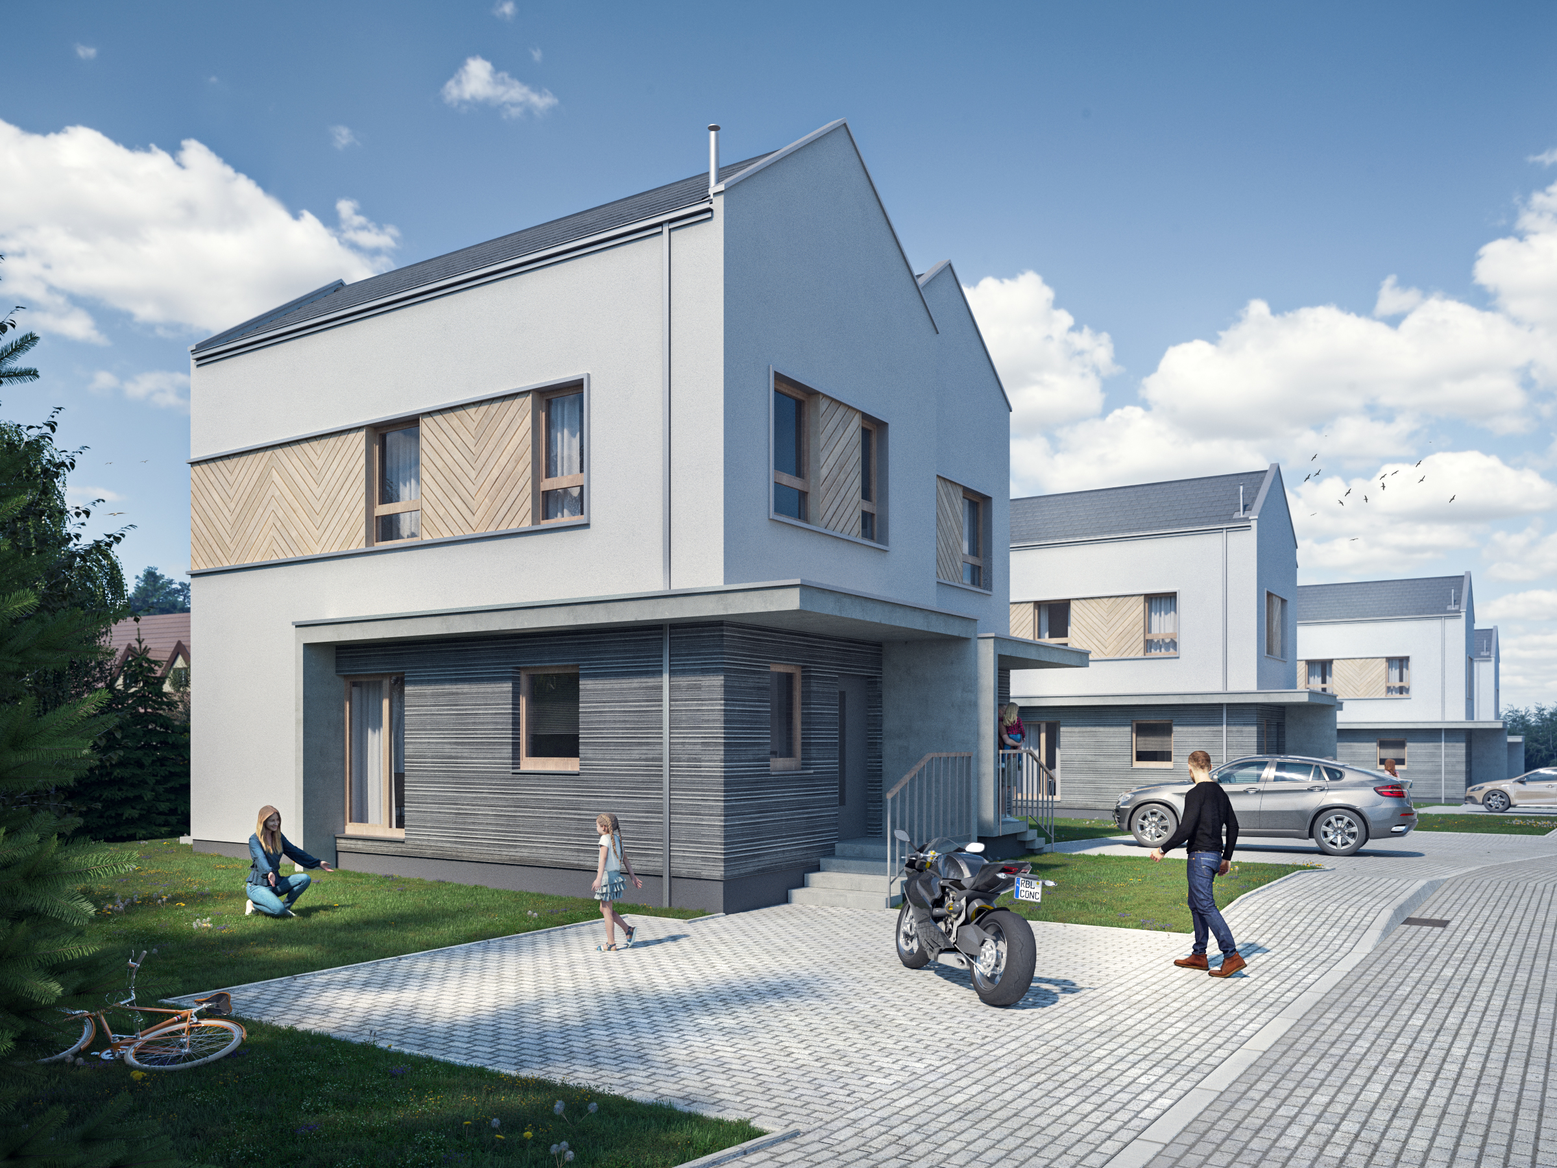
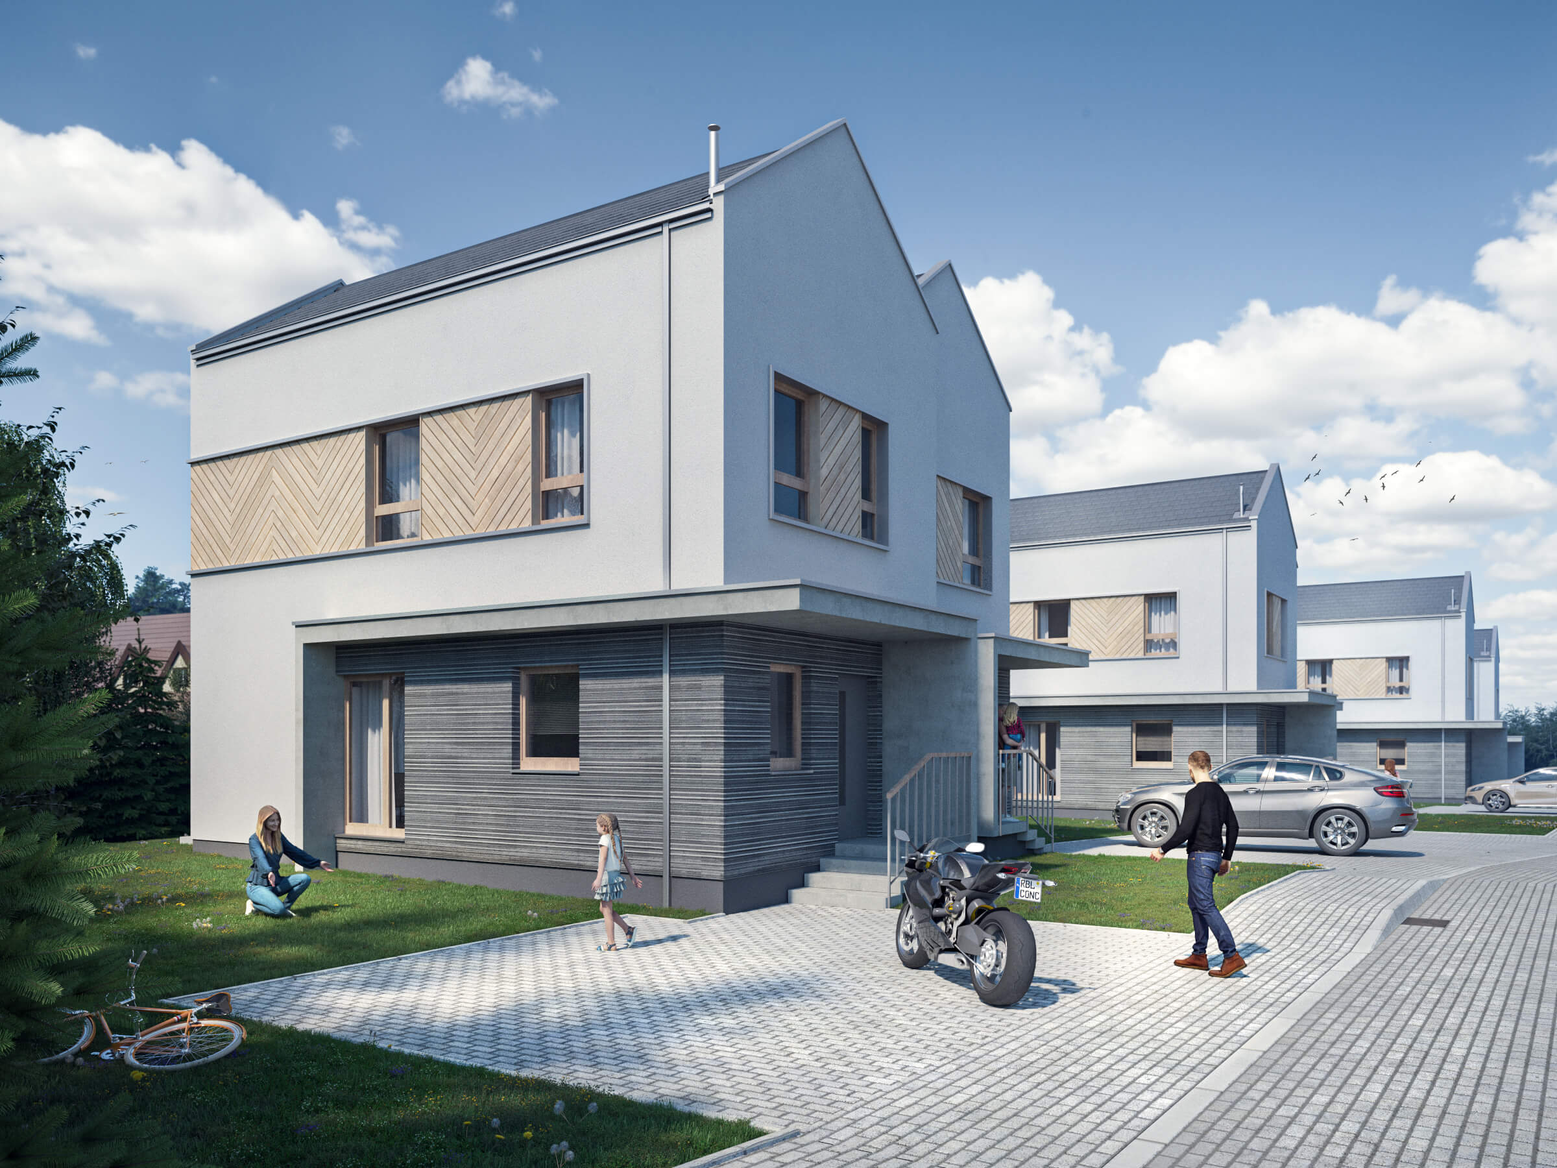
Update property status

Changed region(s): [[0.0938, 0.8711, 0.1562, 0.9022], [0.0, 0.3733, 0.0312, 0.4044]]

diff --git a/banino.html b/banino.html
@@ -354,8 +354,8 @@ height="0" width="0" style="display:none;visibility:hidden"></iframe></noscript>
                                 <li class="rev-item rev-item-1 tp-revslider-slidesli active-revslide" data-transition="crossfade" style="perspective: 6000px; width: 100%; height: 100%; overflow: hidden; z-index: 20; visibility: inherit; opacity: 1; background-color: rgba(255, 255, 255, 0);">
                                     <div class="slotholder" style="position: absolute; top: 0px; left: 0px; z-index: 0; width: 100%; height: 100%; visibility: inherit; opacity: 1; transform: matrix(1, 0, 0, 1, 0, 0);">
                                         <!--Runtime Modification - Img tag is Still Available for SEO Goals in Source - <img class="rev-slidebg defaultimg" src="img/willa-wrzos.jpg" alt="comfort-residence">-->
-                                        <div class="tp-bgimg defaultimg " data-bgcolor="undefined" style="background-repeat: no-repeat; background-image: url(&quot;images/Banino210326_wizualizacja.png&quot;); background-size: cover; background-position: center center; width: 100%; height: 100%; opacity: 1; visibility: inherit; z-index: 20;"
-                                            src="images/Banino210326_wizualizacja.png"></div>
+                                        <div class="tp-bgimg defaultimg " data-bgcolor="undefined" style="background-repeat: no-repeat; background-image: url(&quot;images/Banino210326_wizualizacja.jpg&quot;); background-size: cover; background-position: center center; width: 100%; height: 100%; opacity: 1; visibility: inherit; z-index: 20;"
+                                            src="images/Banino210326_wizualizacja.jpg"></div>
                                     </div>
                                 </li>
 
@@ -470,7 +470,7 @@ height="0" width="0" style="display:none;visibility:hidden"></iframe></noscript>
                                     <td class="column-2">4</td>
                                     <td class="column-3">75,67</td>
                                     <td class="column-4">132,23</td>
-                                    <td class="column-5">Dostępne</td>
+                                    <td class="column-5">Sprzedane</td>
                                     <td class="column-6">
                                         <a href="pdf/BaninoResidence_T1.1.2.pdf" target="_blank">pobierz</a>
                                     </td>
@@ -480,7 +480,7 @@ height="0" width="0" style="display:none;visibility:hidden"></iframe></noscript>
                                     <td class="column-2">4</td>
                                     <td class="column-3">75,67</td>
                                     <td class="column-4">149,11</td>
-                                    <td class="column-5">Rezerwacja</td>
+                                    <td class="column-5">Sprzedane</td>
                                     <td class="column-6">
                                         <a href="pdf/BaninoResidence_T1.2.1.pdf" target="_blank">pobierz</a>
                                     </td>
@@ -490,7 +490,7 @@ height="0" width="0" style="display:none;visibility:hidden"></iframe></noscript>
                                     <td class="column-2">5</td>
                                     <td class="column-3">75,67</td>
                                     <td class="column-4">166,63</td>
-                                    <td class="column-5">Rezerwacja</td>
+                                    <td class="column-5">Sprzedane</td>
                                     <td class="column-6">
                                         <a href="pdf/BaninoResidence_T1.2.2.pdf" target="_blank">pobierz</a>
                                     </td>
@@ -520,7 +520,7 @@ height="0" width="0" style="display:none;visibility:hidden"></iframe></noscript>
                                     <td class="column-2">4</td>
                                     <td class="column-3">75,67</td>
                                     <td class="column-4">188,52</td>
-                                    <td class="column-5">Rezerwacja</td>
+                                    <td class="column-5">Sprzedane</td>
                                     <td class="column-6">
                                         <a href="pdf/BaninoResidence_T1.4.1.pdf" target="_blank">pobierz</a>
                                     </td>
@@ -540,7 +540,7 @@ height="0" width="0" style="display:none;visibility:hidden"></iframe></noscript>
                                     <td class="column-2">3</td>
                                     <td class="column-3">50,67</td>
                                     <td class="column-4">137,99</td>
-                                    <td class="column-5">Rezerwacja</td>
+                                    <td class="column-5">Sprzedane</td>
                                     <td class="column-6">
                                         <a href="pdf/BaninoResidence_T2.1.1.pdf" target="_blank">pobierz</a>
                                     </td>
@@ -550,7 +550,7 @@ height="0" width="0" style="display:none;visibility:hidden"></iframe></noscript>
                                     <td class="column-2">3</td>
                                     <td class="column-3">51,82</td>
                                     <td class="column-4">231,06</td>
-                                    <td class="column-5">Rezerwacja</td>
+                                    <td class="column-5">Sprzedane</td>
                                     <td class="column-6">
                                         <a href="pdf/BaninoResidence_T2.1.2.pdf" target="_blank">pobierz</a>
                                     </td>
@@ -560,7 +560,7 @@ height="0" width="0" style="display:none;visibility:hidden"></iframe></noscript>
                                     <td class="column-2">3</td>
                                     <td class="column-3">50,67</td>
                                     <td class="column-4">140,69</td>
-                                    <td class="column-5">Rezerwacja</td>
+                                    <td class="column-5">Sprzedane</td>
                                     <td class="column-6">
                                         <a href="pdf/BaninoResidence_T2.2.1.pdf" target="_blank">pobierz</a>
                                     </td>
@@ -570,7 +570,7 @@ height="0" width="0" style="display:none;visibility:hidden"></iframe></noscript>
                                     <td class="column-2">3</td>
                                     <td class="column-3">51,82</td>
                                     <td class="column-4">340,66</td>
-                                    <td class="column-5">Rezerwacja</td>
+                                    <td class="column-5">Sprzedane</td>
                                     <td class="column-6">
                                         <a href="pdf/BaninoResidence_T2.2.2.pdf" target="_blank">pobierz</a>
                                     </td>
@@ -580,7 +580,7 @@ height="0" width="0" style="display:none;visibility:hidden"></iframe></noscript>
                                     <td class="column-2">4</td>
                                     <td class="column-3">104,87</td>
                                     <td class="column-4">160,08</td>
-                                    <td class="column-5">Dostępne</td>
+                                    <td class="column-5">Sprzedane</td>
                                     <td class="column-6">
                                         <a href="pdf/BaninoResidence_T3.1.1.pdf" target="_blank">pobierz</a>
                                     </td>
@@ -600,7 +600,7 @@ height="0" width="0" style="display:none;visibility:hidden"></iframe></noscript>
                                     <td class="column-2">4</td>
                                     <td class="column-3">104,87</td>
                                     <td class="column-4">230,43</td>
-                                    <td class="column-5">Dostępne</td>
+                                    <td class="column-5">Sprzedane</td>
                                     <td class="column-6">
                                         <a href="pdf/BaninoResidence_T3.2.1.pdf" target="_blank">pobierz</a>
                                     </td>
@@ -617,6 +617,10 @@ height="0" width="0" style="display:none;visibility:hidden"></iframe></noscript>
                                 </tr>
                             </tbody>
                         </table>
+                        <div class="sold-phrase-wrapper">
+                            <h2>1 etap inwestycji wyprzedany</h2>
+                            <p>już wkrótce wprowadzimy do&nbsp;oferty&nbsp;2&nbsp;etap</p>
+                        </div>
                     </div>
                 </div>
             </div>
@@ -624,13 +628,12 @@ height="0" width="0" style="display:none;visibility:hidden"></iframe></noscript>
     </div>
 
     <div id="kontakt" class="custom-row">
-        <h2 style="text-align: center">Jesteś zainteresowany?</h2>
+        <h2 style="text-align: center">Jesteś zainteresowany 2 etapem?</h2>
     </div>
 
     <section class="section p-b-80">
         <div class="container">
-            <h4 class="text-center mb-3">Wybierz preferowany metraż i wypełnij formularz. Poinformujemy cię o dostępnych lokalach.
-            </h4>
+            <h4 class="text-center mb-5">Wypełnij formularz w celu umówienia rozmowy i rezerwacji najlepszych lokali jeszcze przed wprowadzeniem oferty.</h4>
             <div class="row">
                 <div class="col-lg-8">
                     <form class="form-contact js-contact-form" method="POST" action="php/send.php">
@@ -721,7 +724,7 @@ height="0" width="0" style="display:none;visibility:hidden"></iframe></noscript>
                                 <img class="d-block w-100" src="/images/Banino_TypII_210329.jpg">
                             </div>
                             <div class="carousel-item">
-                                <img class="d-block w-100" src="/images/Banino210326_wizualizacja.png">
+                                <img class="d-block w-100" src="/images/Banino210326_wizualizacja.jpg">
                             </div>
                         </div>
                         <a class="carousel-control-prev" href="#carouselExample" role="button" data-slide="prev">
@@ -750,7 +753,7 @@ height="0" width="0" style="display:none;visibility:hidden"></iframe></noscript>
                 <img src="/images/Banino_TypII_210329.jpg" alt="kolorowa-wizualizacja-2" data-target="#carouselExample" data-slide-to="1">
             </div>
             <div class="col-md-4">
-                <img src="/images/Banino210326_wizualizacja.png" alt="kolorowa-wizualizacja-3" data-target="#carouselExample" data-slide-to="2">
+                <img src="/images/Banino210326_wizualizacja.jpg" alt="kolorowa-wizualizacja-3" data-target="#carouselExample" data-slide-to="2">
             </div>
         </div>
     </div>

diff --git a/index.html b/index.html
@@ -350,8 +350,8 @@ height="0" width="0" style="display:none;visibility:hidden"></iframe></noscript>
                                 <li class="rev-item rev-item-1 tp-revslider-slidesli active-revslide" data-transition="crossfade" style="perspective: 6000px; width: 100%; height: 100%; overflow: hidden; z-index: 20; visibility: inherit; opacity: 1; background-color: rgba(255, 255, 255, 0);">
                                     <div class="slotholder" style="position: absolute; top: 0px; left: 0px; z-index: 0; width: 100%; height: 100%; visibility: inherit; opacity: 1; transform: matrix(1, 0, 0, 1, 0, 0);">
                                         <!--Runtime Modification - Img tag is Still Available for SEO Goals in Source - <img class="rev-slidebg defaultimg" src="img/willa-wrzos.jpg" alt="comfort-residence">-->
-                                        <div class="tp-bgimg defaultimg " data-bgcolor="undefined" style="background-repeat: no-repeat; background-image: url(&quot;images/Banino210326_wizualizacja.png&quot;); background-size: cover; background-position: center center; width: 100%; height: 100%; opacity: 1; visibility: inherit; z-index: 20;"
-                                            src="images/Banino210326_wizualizacja.png"></div>
+                                        <div class="tp-bgimg defaultimg " data-bgcolor="undefined" style="background-repeat: no-repeat; background-image: url(&quot;images/Banino210326_wizualizacja.jpg&quot;); background-size: cover; background-position: center center; width: 100%; height: 100%; opacity: 1; visibility: inherit; z-index: 20;"
+                                            src="images/Banino210326_wizualizacja.jpg"></div>
                                     </div>
                                 </li>
 
@@ -451,7 +451,7 @@ height="0" width="0" style="display:none;visibility:hidden"></iframe></noscript>
                                     <td class="column-2">4</td>
                                     <td class="column-3">75,67</td>
                                     <td class="column-4">132,23</td>
-                                    <td class="column-5">Dostępne</td>
+                                    <td class="column-5">Sprzedane</td>
                                     <td class="column-6">
                                         <a href="pdf/BaninoResidence_T1.1.2.pdf" target="_blank">pobierz</a>
                                     </td>
@@ -461,7 +461,7 @@ height="0" width="0" style="display:none;visibility:hidden"></iframe></noscript>
                                     <td class="column-2">4</td>
                                     <td class="column-3">75,67</td>
                                     <td class="column-4">149,11</td>
-                                    <td class="column-5">Rezerwacja</td>
+                                    <td class="column-5">Sprzedane</td>
                                     <td class="column-6">
                                         <a href="pdf/BaninoResidence_T1.2.1.pdf" target="_blank">pobierz</a>
                                     </td>
@@ -471,7 +471,7 @@ height="0" width="0" style="display:none;visibility:hidden"></iframe></noscript>
                                     <td class="column-2">5</td>
                                     <td class="column-3">75,67</td>
                                     <td class="column-4">166,63</td>
-                                    <td class="column-5">Rezerwacja</td>
+                                    <td class="column-5">Sprzedane</td>
                                     <td class="column-6">
                                         <a href="pdf/BaninoResidence_T1.2.2.pdf" target="_blank">pobierz</a>
                                     </td>
@@ -501,7 +501,7 @@ height="0" width="0" style="display:none;visibility:hidden"></iframe></noscript>
                                     <td class="column-2">4</td>
                                     <td class="column-3">75,67</td>
                                     <td class="column-4">188,52</td>
-                                    <td class="column-5">Rezerwacja</td>
+                                    <td class="column-5">Sprzedane</td>
                                     <td class="column-6">
                                         <a href="pdf/BaninoResidence_T1.4.1.pdf" target="_blank">pobierz</a>
                                     </td>
@@ -521,7 +521,7 @@ height="0" width="0" style="display:none;visibility:hidden"></iframe></noscript>
                                     <td class="column-2">3</td>
                                     <td class="column-3">50,67</td>
                                     <td class="column-4">137,99</td>
-                                    <td class="column-5">Rezerwacja</td>
+                                    <td class="column-5">Sprzedane</td>
                                     <td class="column-6">
                                         <a href="pdf/BaninoResidence_T2.1.1.pdf" target="_blank">pobierz</a>
                                     </td>
@@ -531,7 +531,7 @@ height="0" width="0" style="display:none;visibility:hidden"></iframe></noscript>
                                     <td class="column-2">3</td>
                                     <td class="column-3">51,82</td>
                                     <td class="column-4">231,06</td>
-                                    <td class="column-5">Rezerwacja</td>
+                                    <td class="column-5">Sprzedane</td>
                                     <td class="column-6">
                                         <a href="pdf/BaninoResidence_T2.1.2.pdf" target="_blank">pobierz</a>
                                     </td>
@@ -541,7 +541,7 @@ height="0" width="0" style="display:none;visibility:hidden"></iframe></noscript>
                                     <td class="column-2">3</td>
                                     <td class="column-3">50,67</td>
                                     <td class="column-4">140,69</td>
-                                    <td class="column-5">Rezerwacja</td>
+                                    <td class="column-5">Sprzedane</td>
                                     <td class="column-6">
                                         <a href="pdf/BaninoResidence_T2.2.1.pdf" target="_blank">pobierz</a>
                                     </td>
@@ -551,7 +551,7 @@ height="0" width="0" style="display:none;visibility:hidden"></iframe></noscript>
                                     <td class="column-2">3</td>
                                     <td class="column-3">51,82</td>
                                     <td class="column-4">340,66</td>
-                                    <td class="column-5">Rezerwacja</td>
+                                    <td class="column-5">Sprzedane</td>
                                     <td class="column-6">
                                         <a href="pdf/BaninoResidence_T2.2.2.pdf" target="_blank">pobierz</a>
                                     </td>
@@ -561,7 +561,7 @@ height="0" width="0" style="display:none;visibility:hidden"></iframe></noscript>
                                     <td class="column-2">4</td>
                                     <td class="column-3">104,87</td>
                                     <td class="column-4">160,08</td>
-                                    <td class="column-5">Dostępne</td>
+                                    <td class="column-5">Sprzedane</td>
                                     <td class="column-6">
                                         <a href="pdf/BaninoResidence_T3.1.1.pdf" target="_blank">pobierz</a>
                                     </td>
@@ -581,7 +581,7 @@ height="0" width="0" style="display:none;visibility:hidden"></iframe></noscript>
                                     <td class="column-2">4</td>
                                     <td class="column-3">104,87</td>
                                     <td class="column-4">230,43</td>
-                                    <td class="column-5">Dostępne</td>
+                                    <td class="column-5">Sprzedane</td>
                                     <td class="column-6">
                                         <a href="pdf/BaninoResidence_T3.2.1.pdf" target="_blank">pobierz</a>
                                     </td>
@@ -598,6 +598,10 @@ height="0" width="0" style="display:none;visibility:hidden"></iframe></noscript>
                                 </tr>
                             </tbody>
                         </table>
+                        <div class="sold-phrase-wrapper">
+                            <h2>1 etap inwestycji wyprzedany</h2>
+                            <p>już wkrótce wprowadzimy do&nbsp;oferty&nbsp;2&nbsp;etap</p>
+                        </div>
                     </div>
                 </div>
             </div>
@@ -605,13 +609,12 @@ height="0" width="0" style="display:none;visibility:hidden"></iframe></noscript>
     </div>
 
     <div id="kontakt" class="custom-row">
-        <h2 style="text-align: center">Jesteś zainteresowany?</h2>
+        <h2 style="text-align: center">Jesteś zainteresowany 2 etapem?</h2>
     </div>
 
     <section class="section p-b-80">
         <div class="container">
-            <h4 class="text-center mb-3">Wybierz preferowany metraż i wypełnij formularz. Poinformujemy cię o dostępnych lokalach.
-            </h4>
+            <h4 class="text-center mb-5">Wypełnij formularz w celu umówienia rozmowy i rezerwacji najlepszych lokali jeszcze przed wprowadzeniem oferty.</h4>
             <div class="row">
                 <div class="col-lg-8">
                     <form class="form-contact js-contact-form" method="POST" action="php/send.php">
@@ -702,7 +705,7 @@ height="0" width="0" style="display:none;visibility:hidden"></iframe></noscript>
                                 <img class="d-block w-100" src="/images/Banino_TypII_210329.jpg">
                             </div>
                             <div class="carousel-item">
-                                <img class="d-block w-100" src="/images/Banino210326_wizualizacja.png">
+                                <img class="d-block w-100" src="/images/Banino210326_wizualizacja.jpg">
                             </div>
                         </div>
                         <a class="carousel-control-prev" href="#carouselExample" role="button" data-slide="prev">
@@ -731,7 +734,7 @@ height="0" width="0" style="display:none;visibility:hidden"></iframe></noscript>
                 <img src="/images/Banino_TypII_210329.jpg" alt="kolorowa-wizualizacja-2" data-target="#carouselExample" data-slide-to="1">
             </div>
             <div class="col-md-4">
-                <img src="/images/Banino210326_wizualizacja.png" alt="kolorowa-wizualizacja-3" data-target="#carouselExample" data-slide-to="2">
+                <img src="/images/Banino210326_wizualizacja.jpg" alt="kolorowa-wizualizacja-3" data-target="#carouselExample" data-slide-to="2">
             </div>
         </div>
     </div>

diff --git a/css/main.css b/css/main.css
@@ -19921,3 +19921,39 @@ input[type="checkbox"] {
 .video-overlay-play-button.is-hidden {
   display: none;
 }
+
+.mytable .wpb_wrapper {
+  position: relative;
+  overflow: hidden;
+  max-height: 350px;
+}
+
+.mytable .tablepress,
+.mytable .tablepress thead th,
+.mytable .tablepress a {
+  color: transparent;
+  text-shadow: 0 0 5px rgb(0 0 0 / 50%);
+}
+
+.sold-phrase-wrapper {
+  position: absolute;
+  top: 0;
+  left: 0;
+  right: 0;
+  bottom: 0;
+  width: 100%;
+  height: 100%;
+  background-color: rgba(85, 28, 170, .8);
+  color: #ffffff;
+  padding: 20px;
+  display: flex;
+  justify-content: center;
+  align-items: center;
+  flex-direction: column;
+  text-align: center;
+}
+
+.sold-phrase-wrapper p {
+  font-size: 18px;
+  margin-top: 10px;
+}
